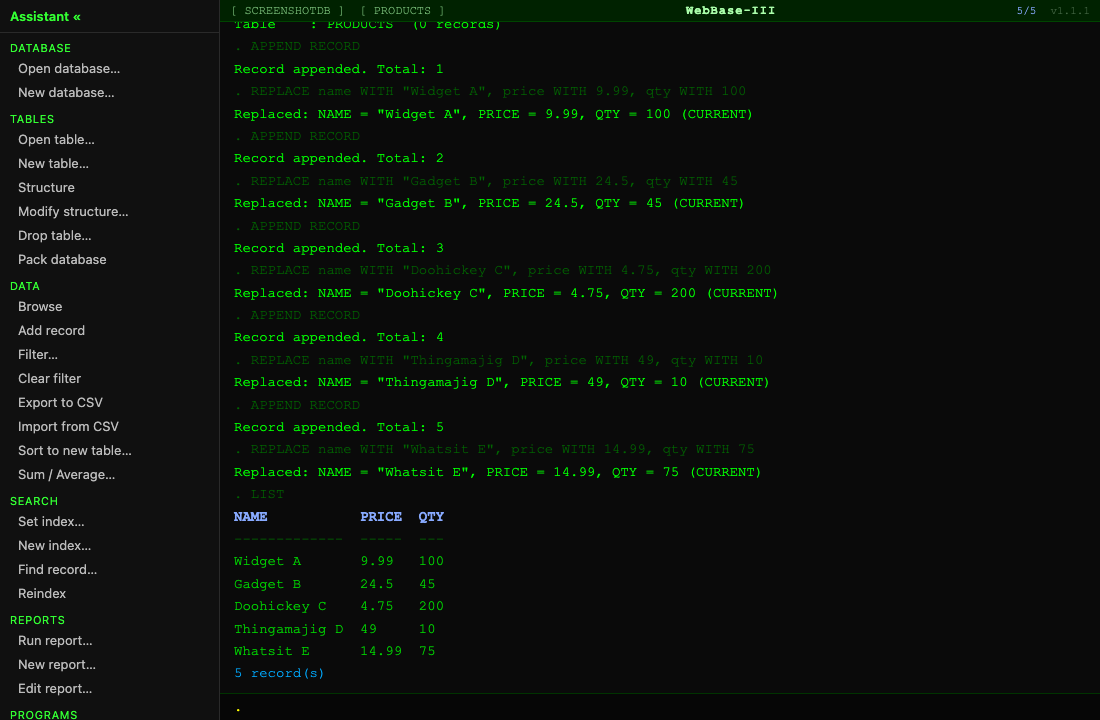
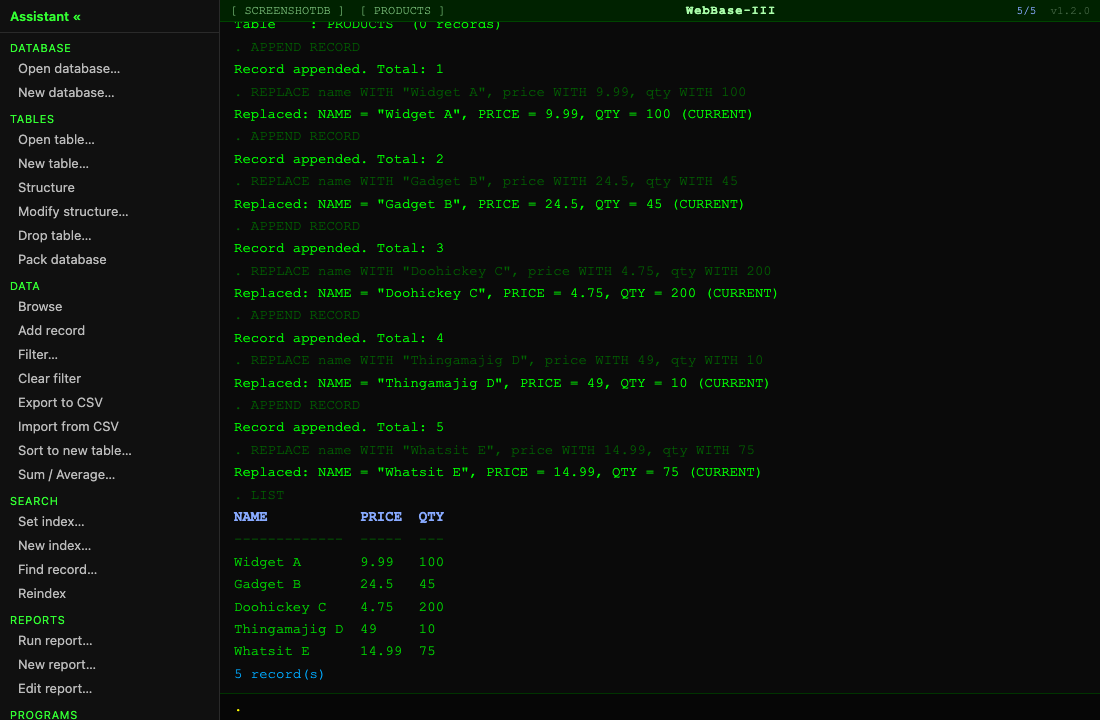
fix: BROWSE validation message was clipped away; refresh docs + screenshots
The per-cell validation error (#45) was never visible. Grid cells set
overflow:hidden for the ellipsis on long values, which clipped the
absolutely-positioned tooltip to nothing — an invalid edit showed a red
border and no explanation of what was wrong.

The e2e tests passed the whole time: toContainText and toBeVisible do
not account for clipping by an ancestor's overflow. The assertion now
uses toBeInViewport(), which is backed by an IntersectionObserver and
does. Verified it fails against the unfixed CSS (viewport ratio 0).

Found by looking at a screenshot of the feature rather than trusting a
green test — now recorded in CLAUDE.md's test-discipline notes.

Also regenerates every screenshot and the README demo GIF against
v1.2.0 (they still showed the v1.1.1 banner), and adds a new
screenshot-grid-validation.png plus its capture step and a README
section for it.

diff --git a/tests/grid-validation.spec.ts b/tests/grid-validation.spec.ts
@@ -37,6 +37,11 @@ test.describe('BROWSE cell validation', () => {
     await page.keyboard.press('Enter');
     await expect(td).toHaveClass(/cell-invalid/);
     await expect(td.locator('.cell-error')).toContainText('HH:MM');
+    // The cell has `overflow: hidden`, so the message can be present, styled
+    // visible, and still clipped away from the user. toBeInViewport uses an
+    // IntersectionObserver and therefore accounts for ancestor clipping;
+    // toContainText / toBeVisible do not.
+    await expect(td.locator('.cell-error')).toBeInViewport();
     await expect(td.locator('input.cell-ed')).toBeVisible();   // still editing
 
     // Off-granularity time — rejected for a different reason.

diff --git a/src/styles/main.css b/src/styles/main.css
@@ -248,7 +248,10 @@ html, body {
   color: #ffffff; font-family: var(--font); font-size: 13px; outline: none;
 }
 
-/* A rejected edit (#45): the cell stays in edit mode and explains why. */
+/* A rejected edit (#45): the cell stays in edit mode and explains why.
+   Cells clip their content (`overflow: hidden` above, for ellipsis), which would
+   swallow the message entirely — the user would see only a red border. */
+#grid-table td.cell-invalid { overflow: visible; }
 #grid-table td.cell-invalid input.cell-ed { border-color: #cc0000; background: #2a0000; }
 #grid-table td.cell-invalid .cell-error {
   position: absolute; left: 0; top: 100%; z-index: 20;

diff --git a/CLAUDE.md b/CLAUDE.md
@@ -362,6 +362,11 @@ spots, not bad luck. When adding tests, remember what the existing ones cannot s
   write the test that uses two.
 - **Prefer failing loudly to guessing.** The parser used to absorb any token it didn't
   understand and invent a column from it. `CREATE TABLE` is now strict; keep it that way.
+- **`toContainText` / `toBeVisible` do not see clipping.** The BROWSE validation message was
+  present, styled `visible`, and clipped to nothing by the cell's `overflow: hidden` — users
+  saw a red border and no reason, while the tests passed. Assert `toBeInViewport()` (backed by
+  an IntersectionObserver, so it accounts for ancestor clipping) for anything that must be
+  *readable*, and look at a screenshot of a UI change before believing it works.
 
 Run `npm run coverage` when touching an area you suspect is untested. **Never run `npm test`
 and `npx playwright test` concurrently** — both mutate `data/` and `data/system.sqlite3`, and

diff --git a/CHANGELOG.md b/CHANGELOG.md
@@ -76,6 +76,11 @@ Versions follow [Semantic Versioning](https://semver.org/) — minor bump per su
 - A bare `INPUT "prompt" TO <var>` typed at the REPL silently discarded the value: the
   submitted form was only applied when a continuation existed, which is never the case for
   a single statement. Values a form collects are now always stored. (#50)
+- The `BROWSE` cell-validation message was invisible. Grid cells set `overflow: hidden`
+  (for the ellipsis on long values), which clipped the absolutely-positioned error tooltip
+  away entirely — an invalid edit showed a red border and no reason. The e2e tests missed
+  it because `toContainText`/`toBeVisible` do not account for clipping by an ancestor's
+  overflow; the assertions now use `toBeInViewport()`, which does. (#46)
 
 ### Changed
 - Removed the `input-request` / `input-response` WebSocket message types. They were declared

diff --git a/README.md b/README.md
@@ -88,6 +88,16 @@ Wizards open in the main area with a live W3Script preview.
 
 ---
 
+### BROWSE — per-cell validation
+
+Grid edits are checked against the column's declared type before they commit. An invalid
+value keeps the cell in edit mode, outlined in red, and says why; the error clears as soon
+as you fix it, and `Esc` abandons the edit. Here a `TIME(15)` column rejects `08:07`.
+
+![BROWSE rejecting an invalid TIME(15) cell edit](docs/screenshots/screenshot-grid-validation.png)
+
+---
+
 ### Aggregate commands & dBASE III parity
 
 `SUM`, `AVERAGE`, `? ROUND(…)`, `? MAX(…)`, and `SORT ON … TO` — numeric aggregates and sorted copies, honouring the active filter.
